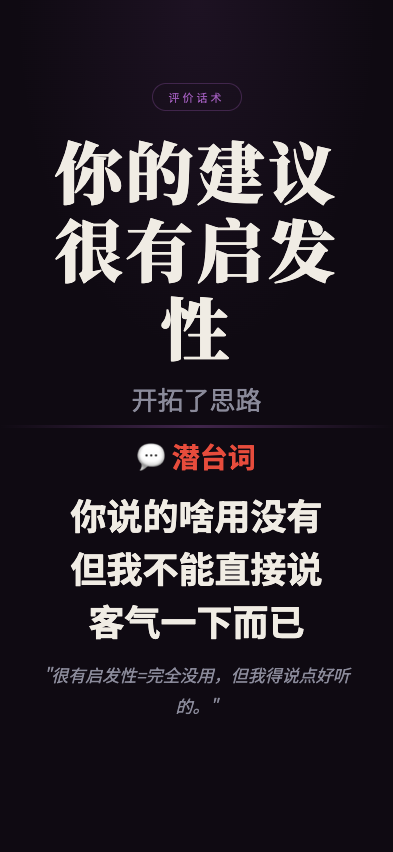
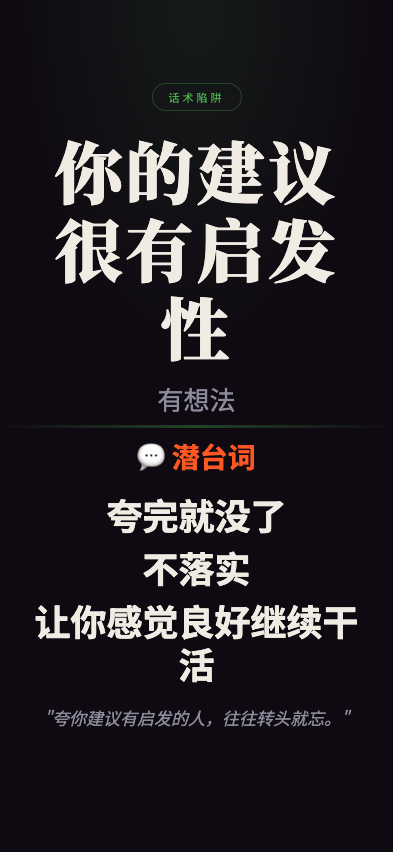
feat: 职场生存法则 screenshot - nizhegecengjihaibugou

Changed region(s): [[0.0916, 0.5798, 0.916, 0.8545], [0.3359, 0.4577, 0.6718, 0.5493], [0.4275, 0.0915, 0.5802, 0.1221]]

diff --git a/wuliao-tools/tools/biz-speak/scenes/nidejianyihenyouqifaxing.html b/wuliao-tools/tools/biz-speak/scenes/nidejianyihenyouqifaxing.html
@@ -10,8 +10,8 @@
     --bg: #0f0a12;
     --text: #f0ece4;
     --text-dim: #8a8a9a;
-    --gold: #9b59b6;
-    --red: #e74c3c;
+    --gold: #4caf50;
+    --red: #ff5722;
   }
   * { margin:0; padding:0; box-sizing:border-box; }
   html, body { width:100%; height:100%; overflow:hidden; }
@@ -24,11 +24,11 @@
   }
   body::before {
     content:''; position:absolute; top:0; left:0; right:0; height:45%;
-    background:radial-gradient(ellipse at 50% 0%, rgba(155,89,182,0.1) 0%, transparent 65%);
+    background:radial-gradient(ellipse at 50% 0%, rgba(76,175,80,0.1) 0%, transparent 65%);
     pointer-events:none; z-index:0;
   }
   .top { flex:1; display:flex; flex-direction:column; align-items:center; justify-content:flex-end; padding:4px 28px 8px; position:relative; z-index:1; }
-  .tag { font-size:11px; letter-spacing:3px; color:var(--gold); border:1px solid rgba(155,89,182,0.3); padding:5px 16px; border-radius:50px; margin-bottom:20px; }
+  .tag { font-size:11px; letter-spacing:3px; color:var(--gold); border:1px solid rgba(76,175,80,0.3); padding:5px 16px; border-radius:50px; margin-bottom:20px; }
   .main-title { font-family:'Noto Serif SC'; font-size:68px; font-weight:900; text-align:center; line-height:1.15; letter-spacing:3px; min-width:0; overflow-wrap:break-word; max-width:92%; }
   .sub-title { font-size:26px; color:var(--text-dim); text-align:center; margin-top:14px; }
   .divider { width:100%; height:3px; background:linear-gradient(90deg,transparent,var(--gold),transparent); opacity:0.35; flex-shrink:0; position:relative; z-index:1; }
@@ -41,19 +41,19 @@
 </head>
 <body>
   <div class="top">
-    <div class="tag">评价话术</div>
+    <div class="tag">话术陷阱</div>
     <div class="main-title">你的建议很有启发性</div>
-    <div class="sub-title">开拓了思路</div>
+    <div class="sub-title">有想法</div>
   </div>
   <div class="divider"></div>
   <div class="bottom">
     <div class="truth-label">💬 潜台词</div>
     <div class="truth-lines">
-      <div class="truth-line">你说的啥用没有</div>
-      <div class="truth-line">但我不能直接说</div>
-      <div class="truth-line">客气一下而已</div>
+      <div class="truth-line">夸完就没了</div>
+      <div class="truth-line">不落实</div>
+      <div class="truth-line">让你感觉良好继续干活</div>
     </div>
-    <div class="quote">"很有启发性=完全没用，但我得说点好听的。"</div>
+    <div class="quote">"夸你建议有启发的人，往往转头就忘。"</div>
   </div>
 </body>
 </html>
